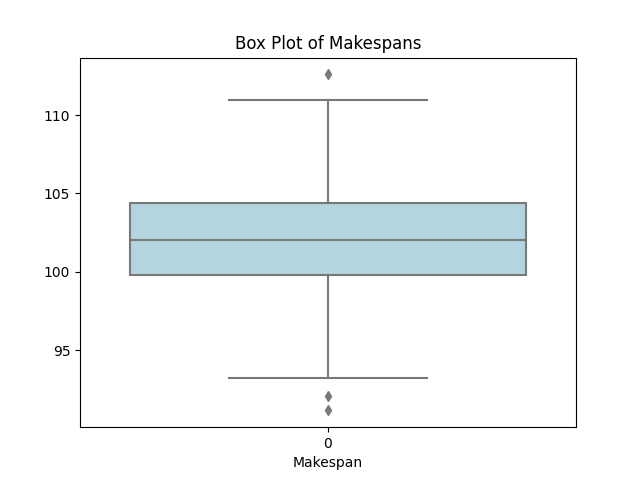
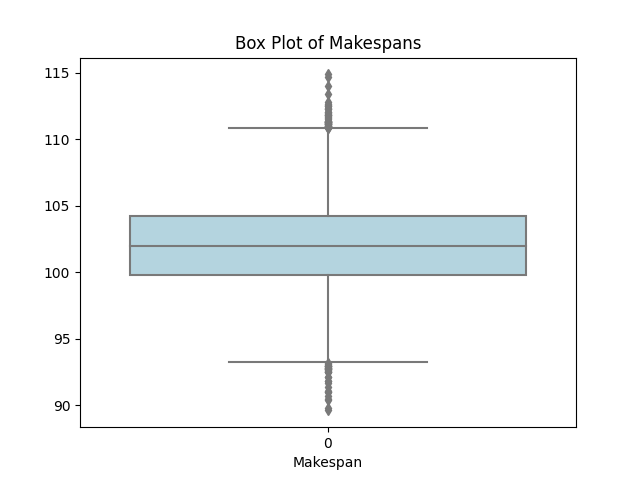
main.py updated

diff --git a/PERT/main.py b/PERT/main.py
@@ -24,7 +24,7 @@ def main():
     makespans = []
     critical_paths = defaultdict(int)
     tmp = {}
-    for i in range(1000):
+    for i in range(10000):
         jobs, CPM_results = cal(jobs_dict)
         earliest_start_time, earliest_finish_time, latest_start_time, latest_finish_time, slacks, critical_path, makespan = CPM_results
         makespans += [makespan]
@@ -47,8 +47,13 @@ def main():
 
 
     max_key = max(critical_paths, key=critical_paths.get)
-    print(max_key, critical_paths[max_key]/1000)
     jobs, CPM_results = tmp[max_key]
+
+    earliest_start_time, earliest_finish_time, latest_start_time, latest_finish_time, slacks, critical_path, makespan = CPM_results
+    print("Mode Critical Path:", critical_path)
+    print("Mode Makespan: ", round(makespan, 1))
+    print(f"Mode Path Proportion:  {critical_paths[max_key]/10}%")
+
     visualize_CPM(jobs, CPM_results)
 
 
